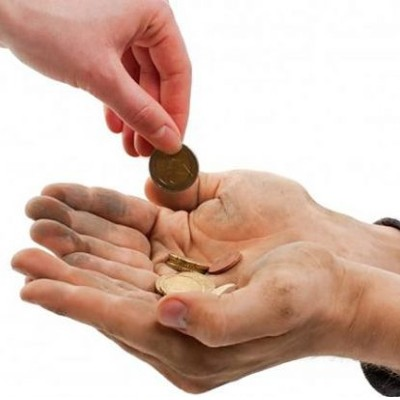
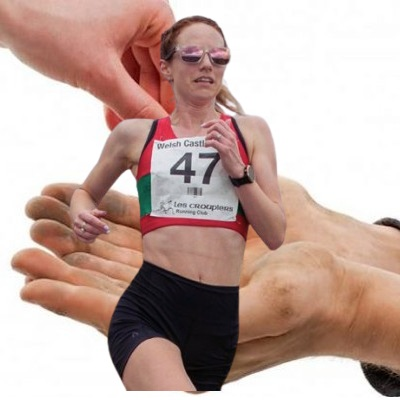
fix

Changed region(s): [[0.18, 0.03, 0.72, 0.99]]

diff --git a/app.js b/app.js
@@ -3,7 +3,7 @@
 const characters = [
     {
         id: "pam",
-        name: "The hockey player",
+        name: "Pamela Salinas",
         category: "Donations",
         description: "The BEST hockey player in the world who gives back to the community.",
         achievement: "BIG funds raised for charity",
@@ -12,7 +12,7 @@ const characters = [
     },
     {
         id: "perez",
-        name: "The marathonist", 
+        name: "Alexander Munyao", 
         category: "Donations",
         description: "He took part in a charity marathon.",
         achievement: "New record in a charity marathon",
@@ -21,7 +21,7 @@ const characters = [
     },
     {
         id: "nicole",
-        name: "The raiser",
+        name: "Menna Evans",
         category: "Donations", 
         description: "Here for a good cause, raising funds for those in need.",
         achievement: "Broke records in charity fundraising",
@@ -64,7 +64,7 @@ async function initApp() {
         db = firebase.database();
 
         console.log('✅ Firebase initialized');
-        updateStatus('Connected to Firebase', true);
+        updateStatus('Connected', true);
 
         // Load votes and setup listeners
         setupListeners();
@@ -73,7 +73,7 @@ async function initApp() {
 
     } catch (error) {
         console.error('❌ Firebase failed:', error);
-        updateStatus('Demo Mode (Firebase failed)', false);
+        updateStatus('Offline (Demo)', false);
         renderAll();
     }
 }
@@ -153,7 +153,7 @@ async function checkVoted(characterId) {
 }
 
 // Vote for character with effects
-async function vote(characterId) {
+async function vote(characterId, event) {
     const alreadyVoted = await checkVoted(characterId);
     if (alreadyVoted) {
         showModal('alreadyVotedModal');
@@ -268,7 +268,7 @@ function renderCharacters() {
                     <i class="fas fa-vote-yea"></i>
                     <span id="votes-${char.id}">${char.votes} votes</span>
                 </div>
-                <button class="vote-button" onclick="vote('${char.id}')" 
+                <button class="vote-button" onclick="vote('${char.id}', event)" 
                         ${hasVoted ? 'disabled' : ''}>
                     <i class="fas fa-hand-paper"></i>
                     ${hasVoted ? 'Voted' : 'Vote Now'}
